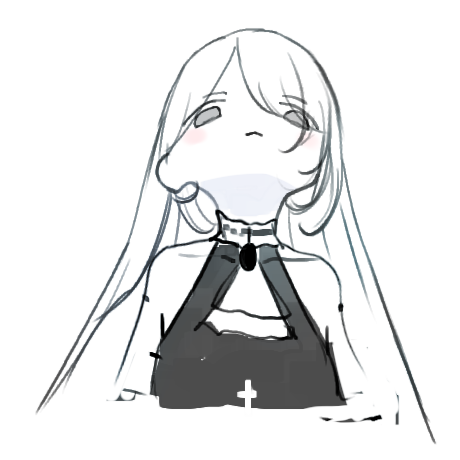
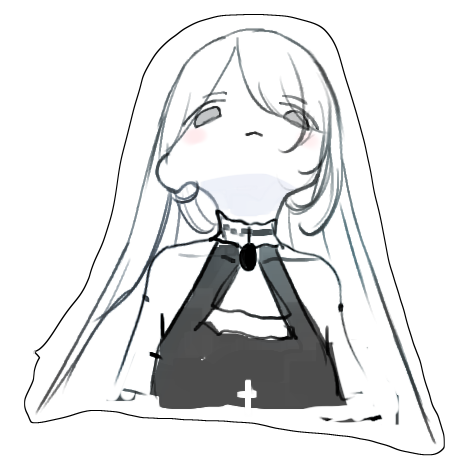
fix

diff --git a/app/page.tsx b/app/page.tsx
@@ -12,31 +12,31 @@ export default function Page() {
       {/* 2. 背景：方眼紙（グリッド）パターン */}
       <div className="pointer-events-none absolute inset-0 z-0 bg-[linear-gradient(to_right,#e2e8f0_2px,transparent_1px),linear-gradient(to_bottom,#e2e8f0_1px,transparent_1px)] bg-[size:30px_30px]" />
 
-      {/* 3. 背景グラフィック（スマホとPCで配置・サイズを最適化） */}
-      <div className="pointer-events-none absolute inset-0 z-0 select-none overflow-hidden">
-        {/* メインイラスト：スマホでは中央奥で薄く、PCでは大きく主張 */}
-        <div className="absolute left-1/2 -top-[60px] -translate-x-1/2 md:top-18">
-          <div className="relative h-[450px] w-[450px] opacity-40 sm:h-[600px] sm:w-[600px] md:h-[800px] md:w-[800px] md:opacity-85">
-            <Image
-              src="/image/イラスト3.png"
-              alt="Main Illustration 1"
-              fill
-              className="object-contain"
-              priority
-            />
-          </div>
-        </div>
+{/* 3. 背景グラフィック（スマホとPCで配置・サイズを最適化） */}
+<div className="pointer-events-none absolute inset-0 z-0 select-none overflow-hidden">
+  {/* メインイラスト：スマホでは中央奥で薄く、PCでは大きく主張 */}
+  <div className="absolute left-1/2 -top-[60px] -translate-x-1/2 md:top-18">
+    <div className="relative h-[450px] w-[450px] opacity-40 sm:h-[600px] sm:w-[600px] md:h-[900px] md:w-[900px] md:opacity-90">
+      <Image
+        src="/image/練１.png"
+        alt="Main Illustration 1"
+        fill
+        className="object-contain"
+        priority
+      />
+    </div>
+  </div>
 
-        {/* 左上のアスキーアート：スマホでは横スクロール崩れを防ぐため非表示 */}
-        <pre className="hidden absolute left-4 top-20 font-dot text-lg leading-tight text-blue-900 opacity-40 md:block">
-          {`koko ha kei5o55 no page. ''''''''''''''''''''''''''
-                ／￣￣￣＼
-                /       ＼  ＜ WELCOME!!
-                | ー  ー   |
-                ＼＿  ＿  ／
-                    ''seikintVevrryday
-                    Ar_tis sukisuki 888888
-                    #############//nn#####%%####%%%####*######%
+  {/* 左上のアスキーアート */}
+  <pre className="hidden absolute left-4 top-20 font-dot text-lg leading-tight text-blue-900 opacity-40 md:block">
+    {`koko ha kei5o55 no page. ''''''''''''''''''''''''''
+          ／￣￣￣＼
+          /       ＼  ＜ WELCOME!!
+          | ー  ー   |
+          ＼＿  ＿  ／
+              ''seikintVevrryday
+              Ar_tis sukisuki 888888
+              #############//nn#####%%####%%%####*######%
 
 ###############***###%%%%%%######
 ########               ---::*##********####
@@ -47,67 +47,99 @@ export default function Page() {
 #*++*+*#+#++#**#+*
 ++***+**#****+***++++^^^+*++++*+**+++*+**++***:=*-==++=++*+**
 `}
-        </pre>
+  </pre>
 
-        {/* 背景ラフスケッチ */}
-        <div className="absolute left-1/2 -top-[120px] -translate-x-1/2 md:-top-[160px]">
-          <Image
-            src="/image/sketch_sample.png"
-            alt="sketch"
-            width={400}
-            height={400}
-            className="object-contain opacity-30 md:opacity-100"
-          />
-        </div>
-      </div>
+
+
+  {/* 🌟 隠しページの星マーク（ラフスケッチ・アスキーアートのすぐ下付近に配置） */}
+  <div className="pointer-events-auto absolute left-6 top-[780px] sm:top-[740px] md:top-[760px]">
+    <Link
+      href="/secret"
+      title="???"
+      className="group inline-block p-2 text-xs text-blue-900/30 transition-all hover:scale-150 hover:text-yellow-400 hover:opacity-100"
+    >
+      <span className="inline-block transition-transform duration-300 group-hover:rotate-45 group-hover:drop-shadow-[0_0_8px_rgba(250,204,21,0.9)]">
+        ★
+      </span>
+    </Link>
+  </div>
+</div>
+
 
       {/* 4. メインコンテンツ領域 */}
       <div className="relative z-10 mx-auto max-w-6xl px-4 py-6 sm:px-6 sm:py-8">
-        {/* ヘッダー・ロゴ */}
-        <header className="flex flex-col justify-between gap-4 border-b-2 border-dotted border-blue-300 pb-4 md:flex-row md:items-baseline">
-          <div>
-            <h1 className="font-custom text-3xl font-black tracking-tight text-blue-900 sm:text-4xl md:text-6xl">
-              kei5ot.com
-            </h1>
-            <h3 className="font-custom text-xs text-blue-800">
-              ｯﾄﾄﾞｯﾄｺﾑｺﾞｰｺﾞｰ
-            </h3>
-            <p className="mt-1 text-lg text-blue-500 sm:text-xl">
-              [ Welcome to my creation hub ]
-            </p>
-          </div>
-          
-          <div className="flex items-center justify-between md:justify-end gap-4">
-            <div className="animate-[spin_1s_steps(8,end)_infinite] bg-red-500 w-8 h-8 text-center text-white leading-8">☺</div>
-            
-            {/* 右上：SNS & ショップリンク */}
-            <nav className="flex flex-wrap items-center gap-2 font-dot text-xs">
-              <span className="mr-1 text-zinc-500">SNS ➔</span>
+        <header className="flex flex-col justify-between gap-4 border-b-2 border-dotted border-blue-300 pb-4 md:flex-row md:items-end">
+  {/* 1. 左：ロゴ・タイトル */}
+  <div>
+    <h1 className="font-custom text-3xl font-black tracking-tight text-blue-900 sm:text-4xl md:text-5xl">
+      kei5ot.com
+    </h1>
+    <h3 className="font-custom text-xs text-blue-800">
+      ｯﾄﾄﾞｯﾄｺﾑｺﾞｰｺﾞｰ
+    </h3>
+    <p className="mt-1 text-sm text-blue-500 sm:text-base">
+      [ Welcome to my creation hub ]
+    </p>
+  </div>
 
-              {/* pixiv */}
-              <a
-                href="https://www.pixiv.net/users/16743124"
-                target="_blank"
-                rel="noreferrer"
-                title="pixiv"
-                className="flex items-center justify-center border-2 border-t-white border-l-white border-r-[#808080] border-b-[#808080] bg-[#e0e0e0] px-3 py-1 font-bold text-blue-800 active:border-t-[#808080] active:border-l-[#808080] active:border-r-white active:border-b-white"
-              >
-                <span className="text-xs font-black">pixiv</span>
-              </a>
+  {/* 2. 右：バナー ＆ アイコン＋SNSボタン（縦並び構造） */}
+<div className="flex flex-col items-center gap-3 md:items-end">
+  {/* SNSの「上」に配置するバナー（サイズアップ版） */}
+  <div className="inline-flex items-center gap-2.5 border-2 border-black bg-gradient-to-r from-pink-500 via-purple-500 to-blue-500 px-4 py-2 shadow-[4px_4px_0px_0px_rgba(0,0,0,1)]">
+    <span className=" text-sm text-yellow-300 sm:text-base">💖</span>
+    <span className=" text-sm font-black tracking-widest text-white drop-shadow-[1px_1px_0px_rgba(0,0,0,1)] sm:text-base">
+      We Love Beautiful Girl.
+    </span>
+    <span className="text-sm text-yellow-300 sm:text-base">💖</span>
+  </div>
 
-              {/* BOOTH */}
-              <a
-                href="https://shop11.booth.pm/"
-                target="_blank"
-                rel="noreferrer"
-                title="BOOTH"
-                className="flex items-center justify-center border-2 border-t-blue-400 border-l-blue-400 border-r-blue-900 border-b-blue-900 bg-blue-600 px-3 py-1 font-bold text-white active:border-t-blue-900 active:border-l-blue-900 active:border-r-blue-400 active:border-b-blue-400"
-              >
-                <span className="text-xs font-bold">BOOTH</span>
-              </a>
-            </nav>
-          </div>
-        </header>
+  {/* アイコン & SNSナビゲーション */}
+  <div className="flex w-full items-center justify-between gap-4 md:w-auto md:justify-end">
+    <div className="h-8 w-8 bg-red-500 text-center font-bold leading-8 text-white animate-[spin_1s_steps(8,end)_infinite]">
+      ☺
+    </div>
+
+    <nav className="flex flex-wrap items-center gap-2 font-dot text-xs">
+      <span className="mr-1 text-zinc-500">SNS ➔</span>
+
+      {/* pixiv */}
+      <a
+        href="https://www.pixiv.net/users/16743124"
+        target="_blank"
+        rel="noreferrer"
+        title="pixiv"
+        className="flex items-center justify-center border-2 border-t-white border-l-white border-b-[#808080] border-r-[#808080] bg-[#e0e0e0] px-3 py-1 font-bold text-blue-800 active:border-t-[#808080] active:border-l-[#808080] active:border-b-white active:border-r-white"
+      >
+        <span className="text-xs font-black">pixiv</span>
+      </a>
+
+      {/* BOOTH */}
+      <a
+        href="https://shop11.booth.pm/"
+        target="_blank"
+        rel="noreferrer"
+        title="BOOTH"
+        className="flex items-center justify-center border-2 border-t-blue-400 border-l-blue-400 border-b-blue-900 border-r-blue-900 bg-blue-600 px-3 py-1 font-bold text-white active:border-t-blue-900 active:border-l-blue-900 active:border-b-blue-400 active:border-r-blue-400"
+      >
+        <span className="text-xs font-bold">BOOTH</span>
+      </a>
+    </nav>
+  </div>
+</div>
+</header>
+      {/* ヒミツページへの隠しリンク（背景のどこかに配置） */}
+      <div className="absolute top-[320px] left-[8%] z-20 select-none md:top-[180px] md:left-[15%]">
+        <Link
+          href="/secret" // 移動先のヒミツページURL
+          title="???"
+          className="group inline-block p-1 text-[10px] text-zinc-900 opacity-30 transition-all hover:scale-150 hover:text-yellow-400 hover:opacity-100 active:scale-125"
+        >
+          {/* マウスを乗せると輝くギミック */}
+          <span className="inline-block transition-transform duration-300 group-hover:rotate-12 group-hover:drop-shadow-[0_0_6px_rgba(250,204,21,0.8)]">
+            ★
+          </span>
+        </Link>
+      </div>
 
         {/* 中央コラージュエリア */}
         <div className="relative mt-6 min-h-[auto] w-full md:mt-8 md:min-h-[500px]">
@@ -144,8 +176,21 @@ export default function Page() {
                 </span>
               </span>
             </div>
-          </div>
 
+          </div>
+          
+              {/* 背景ラフスケッチ（アスキーアートの下に配置） */}
+            <div className="py-30">
+              <div className="relative -rotate-3">
+                <Image
+                  src="/image/イラスト3.png"
+                  alt="sketch"
+                  width={380}
+                  height={380}
+                  className="object-contain opacity-25 mix-blend-multiply sm:opacity-30 md:opacity-100"
+                />
+              </div>
+            </div>
           {/* 右側：告知カード & GIF（スマホでは中央寄せ） */}
           <div className="relative z-20 mx-auto flex max-w-xs flex-col items-center gap-4 md:absolute md:right-4 md:top-12 md:mx-0">
             <div className="relative w-full border-2 border-t-white border-l-white border-r-[#808080] border-b-[#808080] bg-[#f0f0f0] p-2.5 shadow-[3px_3px_0px_0px_rgba(0,0,0,1)]">
@@ -159,6 +204,7 @@ export default function Page() {
                 </span>
                 <span className="text-blue-200">[PUBLISH]</span>
               </div>
+              <Link href="https://kei5ot.fanbox.cc/posts/11926764">
 
               <div className="relative h-36 w-full overflow-hidden border border-zinc-400 bg-zinc-100">
                 <Image
@@ -192,7 +238,7 @@ export default function Page() {
                     CHECK IT OUT ☺
                   </span>
                 </div>
-              </div>
+              </div></Link>
             </div>
 
             <Image
@@ -202,6 +248,13 @@ export default function Page() {
               height={400}
               className="object-contain"
             />
+            <Image
+              src="/image/back2.png"
+              alt="imaima"
+              width={200}
+              height={400}
+              className="object-contain"
+            ></Image>
           </div>
 
           {/* 中央下部：UNDER CONSTRUCTION */}

diff --git a/app/components/MarqueeText.tsx b/app/components/MarqueeText.tsx
@@ -1,6 +1,6 @@
 "use client"
 export const MarqueeText = () => {
-  const text = "★ WELCOME TO KEI5OT.COM ★ CHECK MY PORTFOLIO!! ☺☺ ★ ";
+  const text = "★ WELCOME TO KEI5OT.COM ★ CHECK MY PORTFOLIO!! ☺☺ ★ We Love Beautiful Girl.";
 
   return (
     <div className="group flex w-full overflow-hidden border-y-2 border-black bg-black py-1.5 font-dot text-xs font-bold text-green-400 select-none">
